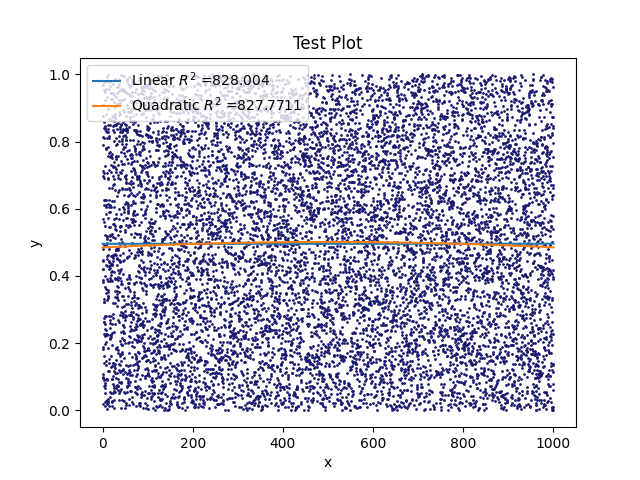
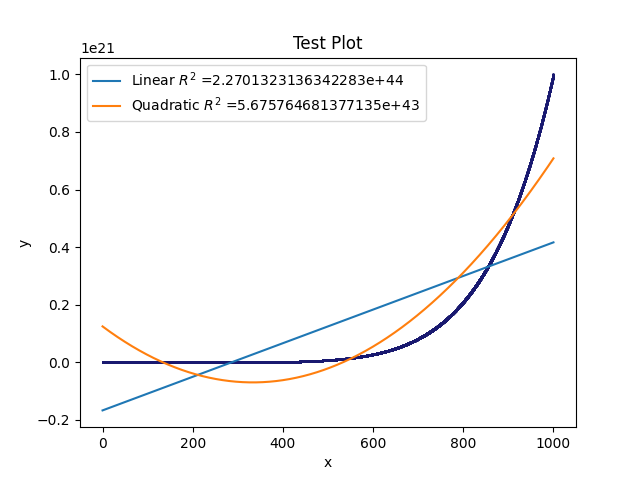
new run of example

diff --git a/plot_generator.py b/plot_generator.py
@@ -27,5 +27,5 @@ def generate(x,y,Title, x_label, y_label):
 
 
 #x = np.linspace(0,1000, 10000)
-#y = np.random.rand(10000)
+#y = x + x**7
 #generate(x,y, "Test Plot", "x", "y")
